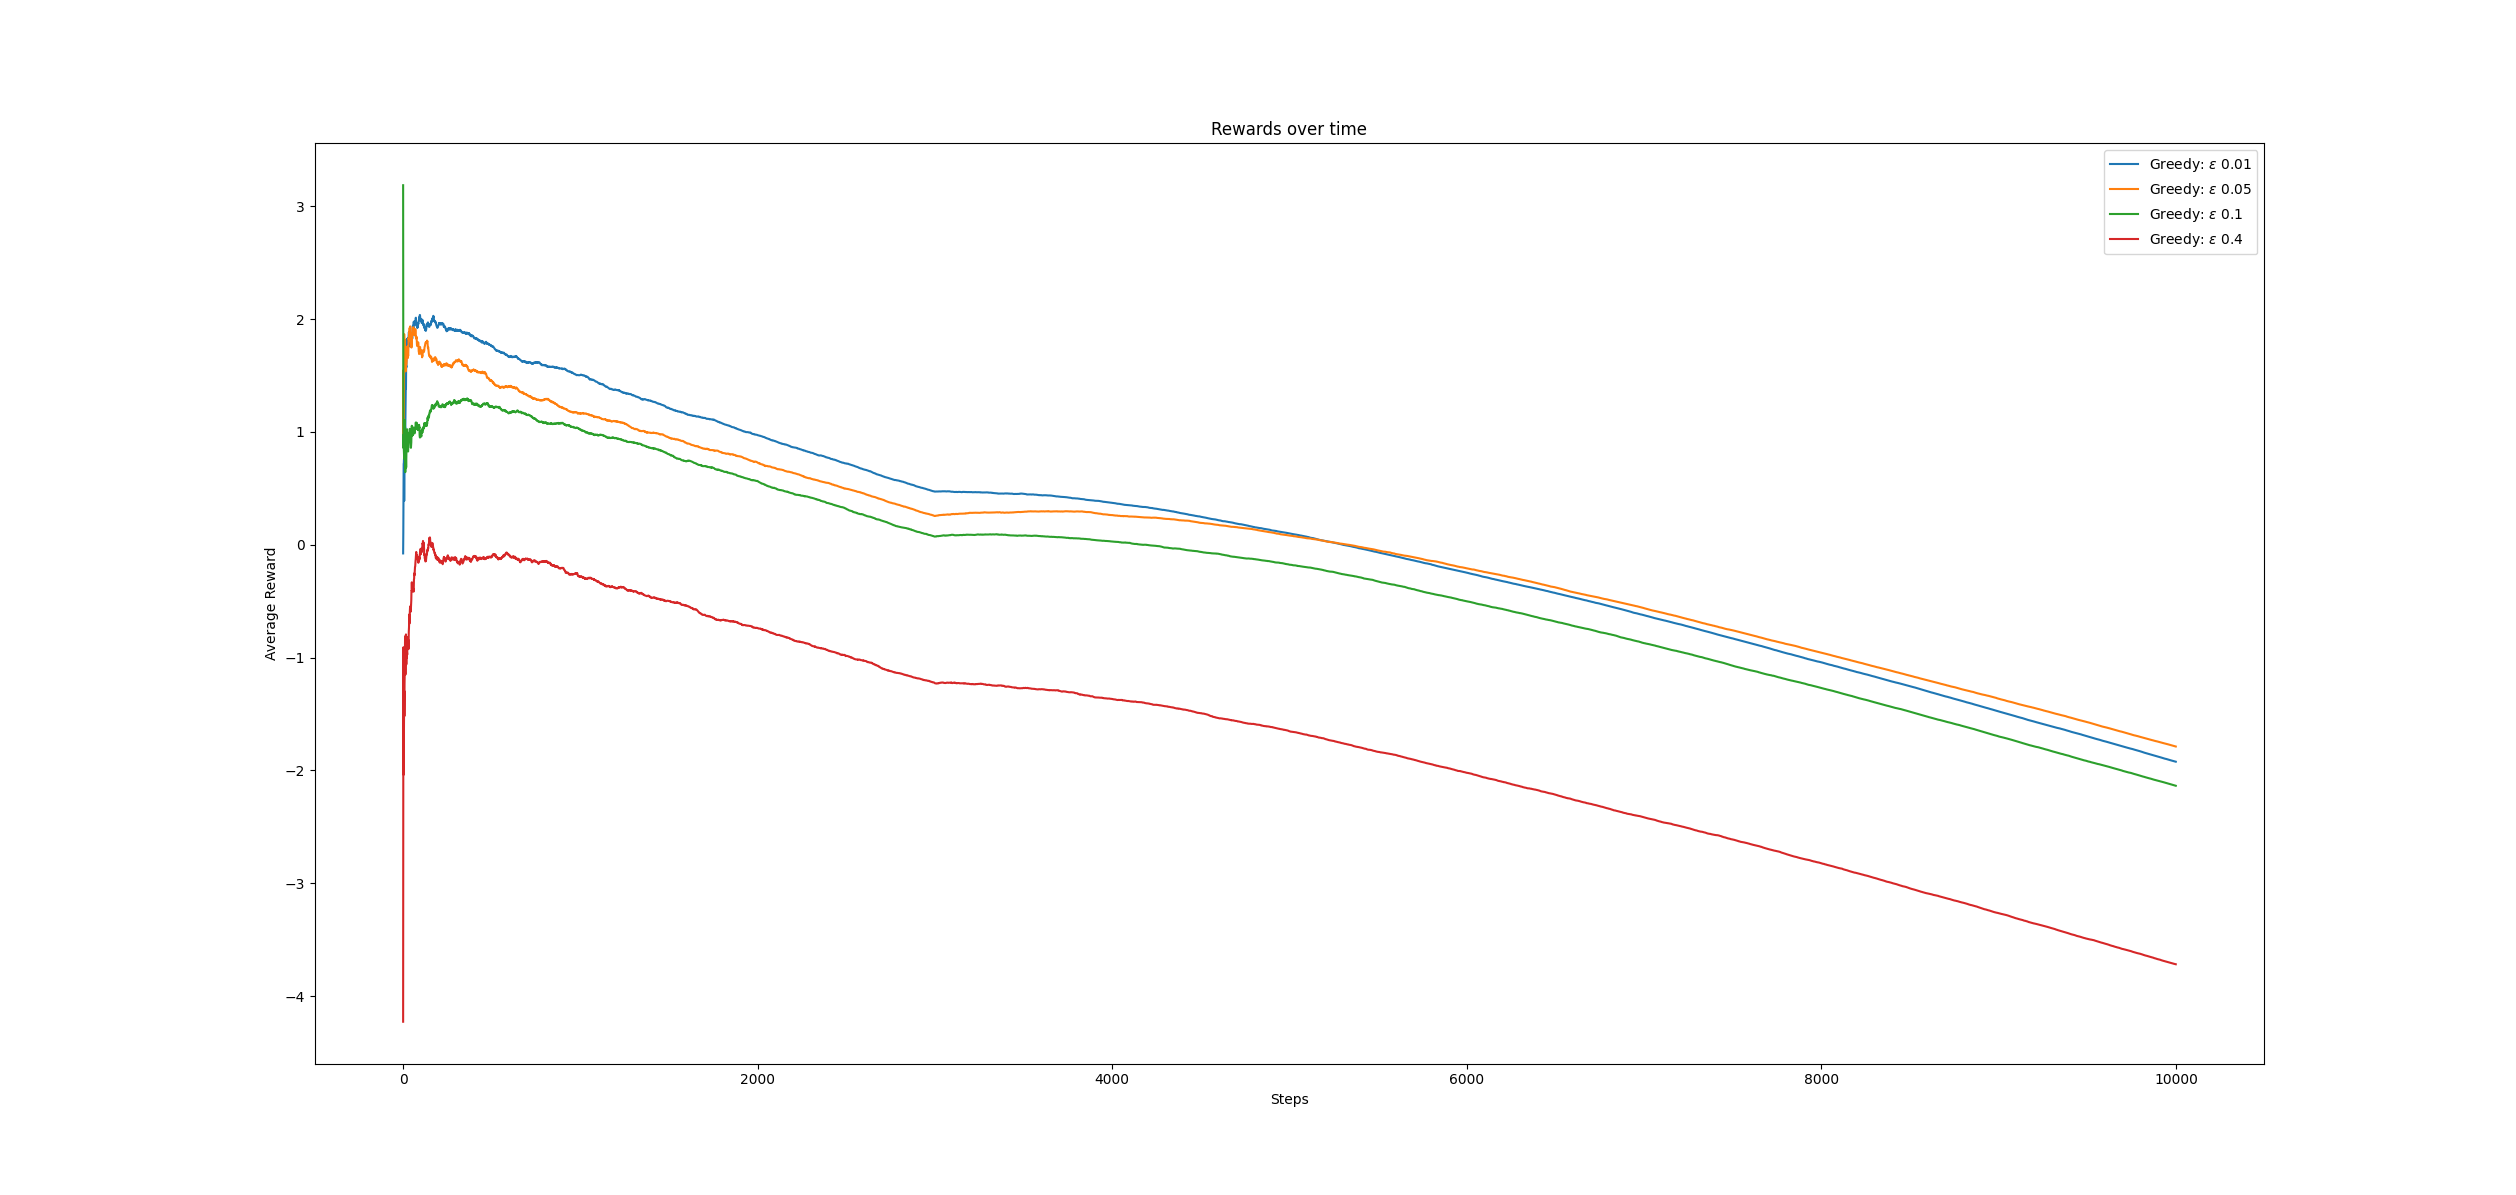
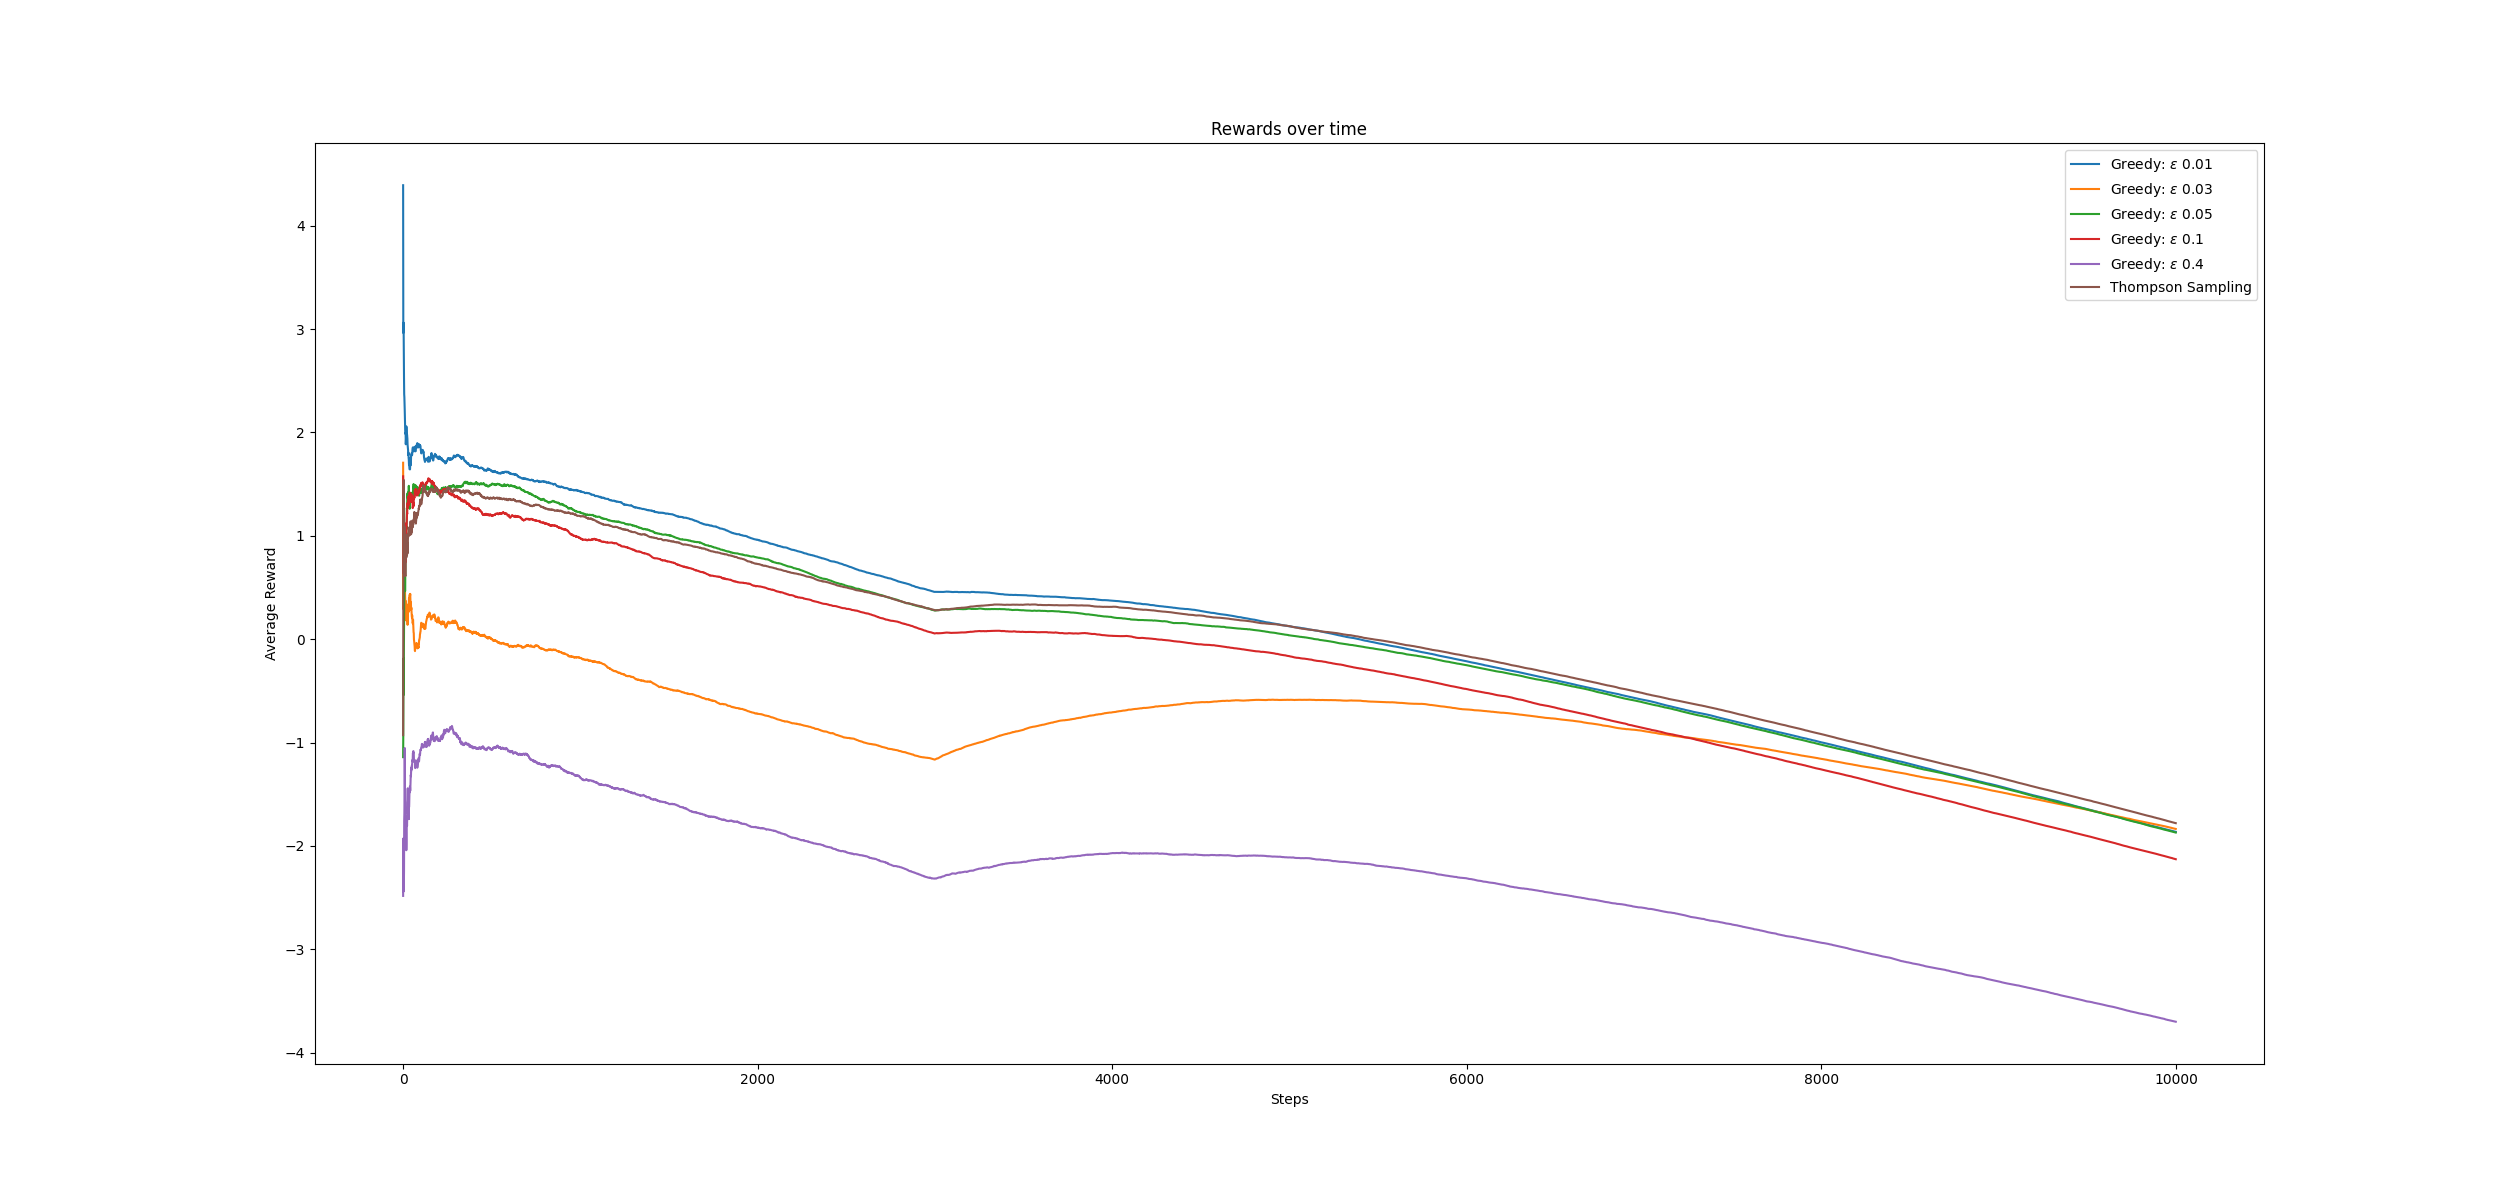
hw2 done

diff --git a/cs5060/hw2/main.py b/cs5060/hw2/main.py
@@ -1,11 +1,10 @@
 import typing as t
 import abc
-from importlib.metadata import distribution, distributions
 import sys
 import numpy as np
 import matplotlib.pyplot as plt
 
-
+# BANDITS --------------------------------------------------------------------------
 class NormalBandits:
     def __init__(self, distributions: t.List[t.Tuple[float, float]], drift: int = 0):
         self.distributions = distributions
@@ -41,6 +40,9 @@ class MovingNormalBandits(NormalBandits):
             (mean + self.shifts.get(idx, 0), shift)
             for idx, (mean, shift) in enumerate(self.distributions)
         ]
+
+
+# AGENTS ---------------------------------------------------------------------------
 
 
 class Agent(abc.ABC):
@@ -162,6 +164,9 @@ class ThompshonSamplingAgent(Agent):
         return np.argmax(np.random.beta(self._as, self._bs))
 
 
+# DRIVER CODE ------------------------------------------------------------------
+
+
 def experiment(
     agent: Agent,
     experiments: int,
@@ -231,10 +236,14 @@ def part1(task: str):
         plt.legend()
         plt.show()
     elif task == "optimal":
-        N_experiments = 5
+        # Not necessarily an optimal solution as it finds
+        # an epsilon by seeing which falls under the threshhold the most during its runtime
+        N_epsilons = 100
         N_steps = 1000
-        N_epsilons = 10
-        epsilons = [i / N_epsilons for i in range(1, 10)]
+        epsilons = [i / N_epsilons for i in range(1, N_epsilons)]
+        threshhold = 1e-3
+        optimal_eps = 0.0
+        amount_converged = 0
 
         for i, ep in enumerate(epsilons):
             agent = EpsilonGreedyAgent(len(normal_distributions), ep)
@@ -245,9 +254,13 @@ def part1(task: str):
                 NormalBandits,
                 distributions=normal_distributions,
             )
-        # print(f"Optimal epsilon: {epsilons[avg_rewards.index(max(avg_rewards))]}")
+            ep_convergence = np.sum(np.abs(rates) <= threshhold)
+            if ep_convergence > amount_converged:
+                amount_converged = ep_convergence
+                optimal_eps = ep
+        print(f"Optimal epsilon: {optimal_eps}")
     elif task == "thompson":
-        agent = EpsilonGreedyAgent(len(normal_distributions), 0.02)
+        agent = EpsilonGreedyAgent(len(normal_distributions), 0.03)
         rewards, rates = experiment(
             agent,
             N_experiments,
@@ -273,10 +286,9 @@ def part1(task: str):
         return
 
 
-def part2(task):
+def part2(task: str):
     N_experiments = 10
     N_steps = 10_000
-    epsilons = [0.01, 0.05, 0.1, 0.4]
     normal_distributions = [
         (0, 5),
         (-0.5, 12),
@@ -305,7 +317,7 @@ def part2(task):
     plt.ylabel("Average Reward")
 
     if task == "epsilons":
-
+        epsilons = [0.01, 0.03, 0.05, 0.1, 0.4]
         for ep in epsilons:
             agent = EpsilonGreedyAgent(len(normal_distributions), ep)
             rewards, rates = experiment(
@@ -317,21 +329,7 @@ def part2(task):
                 drift=-0.001,
             )
             plt.plot(rewards, label=f"Greedy: $\\epsilon$ {ep}")
-        plt.legend()
-        plt.show()
 
-    elif task == "thompson":
-        agent = EpsilonGreedyAgent(len(normal_distributions), 0.02)
-        rewards, rates = experiment(
-            agent,
-            N_experiments,
-            N_steps,
-            NormalBandits,
-            distributions=normal_distributions,
-            drift=-0.001,
-        )
-
-        plt.plot(rewards, label="Optimal Greedy")
         agent = ThompshonSamplingAgent(len(normal_distributions))
         rewards, rates = experiment(
             agent,
@@ -351,13 +349,13 @@ def part2(task):
             agent,
             N_experiments,
             N_steps,
-            NormalBandits,
+            MovingNormalBandits,
             distributions=normal_distributions,
             drift=-0.001,
         )
-
         plt.plot(rewards, label="Optimal Greedy")
-        agent = ThompshonSamplingAgent(len(normal_distributions), 3000)
+
+        agent = ThompshonSamplingAgent(len(normal_distributions))
         rewards, rates = experiment(
             agent,
             N_experiments,
@@ -367,8 +365,22 @@ def part2(task):
             drift=-0.001,
         )
         plt.plot(rewards, label="Thompson Sampling")
+
+        agent = ThompshonSamplingAgent(len(normal_distributions), 3000)
+        rewards, rates = experiment(
+            agent,
+            N_experiments,
+            N_steps,
+            MovingNormalBandits,
+            distributions=normal_distributions,
+            drift=-0.001,
+        )
+        plt.plot(rewards, label="Thompson Sampling w/ restarts")
+
         plt.legend()
         plt.show()
+    else:
+        print("Possible tasks: epsilons, restart, ")
 
 
 def main():

diff --git a/cs5060/hw2/README.md b/cs5060/hw2/README.md
@@ -7,28 +7,36 @@
 
 Execute with
 ```bash
-$ python Collings_Sean.py p1 epsilons
+$ python Collings_Sean_HW2.py p1 epsilons
 ```
 
 ## Section 2
-TODO
+The optimal epsilon I found was 0.03. This was computed only to a percision of 2 decimal points. There may be a higher percision optimal value.
+
+```bash
+$ python Collings_Sean_HW2.py p1 optimal
+```
 
 ## Section 3
 Execute with
 ```bash
-$ python Collings_Sean.py p1 thompson
+$ python Collings_Sean_HW2.py p1 thompson
 ```
 
-This figure demonstrates that Thompshon sampling will outperform Epsilon-greedy over time. However, intially epsilon-greedy is actually better, so you may still want to go with it depending on your dataset
+This figure demonstrates that Thompshon sampling will outperform Epsilon-greedy over time. However, intially epsilon-greedy is actually better, so you may still want to go with it depending on your dataset. It is quickly eclipsed in this example, so that would only be the case if the dataset is small.
 
-![Figure 3](./figures/p1-2.png)
+![Figure 2](./figures/p1-2.png)
 
 # Part 2
 
-## Section 1
-![Figure 4](./figures/p2-1.png)
+## Repeat of Part 1
+As the below figure shows, introducing a negative drift causes all of the setups to tend downwards over time. The increase in several means at 3000 does produce a noticable bump in all of their trends, but is unable to counteract the effects of the negative trend overall. Obvisouly, because there is always a downward momentum to the means, the rewards never converges as it will always decrease, regardless of the number of steps. If the means stopped decreasing after a certain amount of time, the values would eventually converge.
 
-## Section 2
-## Section 3
+The models display similar relationships to each other as previously. Thompson initially performs worse than some of the greedy approaches, but beging to outpace them over time. Interestingly, the optimal found in the first part intially performs much worse than some of the other options, but has the biggest improvement after 3000, and ends up just below Thompson in rewards.
 
-## Section 4
+![Figure 3](./figures/p2-1.png)
+
+## Restarting Thompson
+When we restart the Thompson model, we see some interesting behavior. Intitially it has a significant dip and performs worse, but its slope is much decreased, and it quickly manages to overtake the regular Thompson. Additionally, Thompson ends up performing worse than the optimal greedy model, but the restarted Thompson model continues to be more performant than the optimal greedy up to 10,000 steps.
+
+![Figure 4](./figures/p2-2.png)
